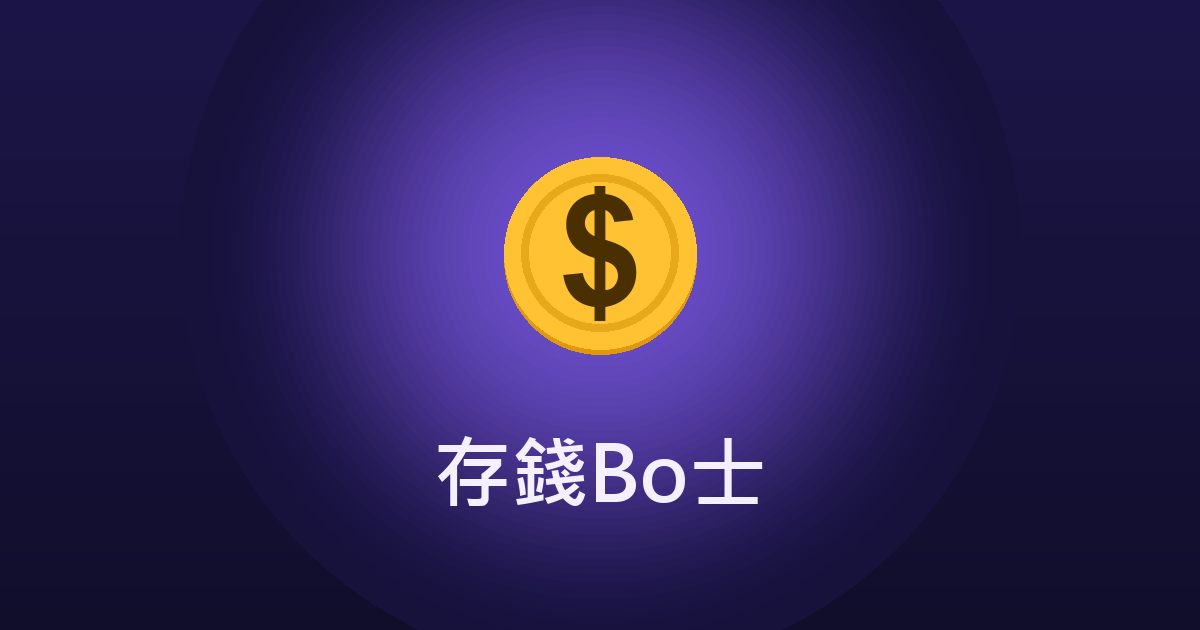
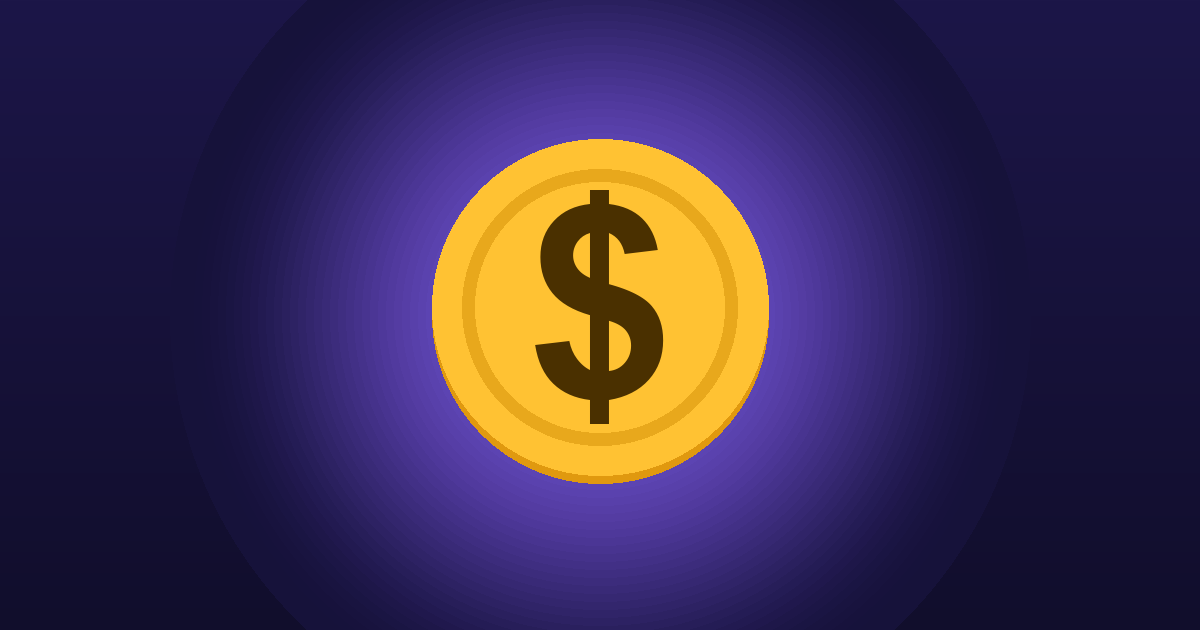
分享圖只留金幣，描述寫長一點
預覽卡片下方原本只有一行「記帳與存錢進度」顯得很空，改成三句話
說明實際用途；圖片拿掉文字，只保留置中的金幣。

diff --git a/index.html b/index.html
@@ -5,11 +5,11 @@
 <meta name="viewport" content="width=device-width, initial-scale=1, viewport-fit=cover">
 <title>存錢Bo士</title>
 <link rel="manifest" href="manifest.json">
-<meta name="description" content="記帳與存錢進度">
+<meta name="description" content="記一筆收支，看存款怎麼長、每個月存了多少、離目標還差多遠。當沖的買賣另外算，不會蓋掉日常花費。手機和電腦登入同一個 Google 帳號就會同步。">
 <meta property="og:type" content="website">
 <meta property="og:site_name" content="存錢Bo士">
 <meta property="og:title" content="存錢Bo士">
-<meta property="og:description" content="記帳與存錢進度">
+<meta property="og:description" content="記一筆收支，看存款怎麼長、每個月存了多少、離目標還差多遠。當沖的買賣另外算，不會蓋掉日常花費。手機和電腦登入同一個 Google 帳號就會同步。">
 <meta property="og:url" content="https://bocby413.github.io/savequest/">
 <meta property="og:image" content="https://bocby413.github.io/savequest/og.png">
 <meta property="og:image:width" content="1200">

diff --git a/sw.js b/sw.js
@@ -1,5 +1,5 @@
 /* 存錢Bo士 — 離線快取。改版時把 VER 加一，手機才會抓到新版 */
-const VER = 'savequest-v24';
+const VER = 'savequest-v25';
 const FILES = ['./', './index.html', './manifest.json',
   './icon-192.png', './icon-512.png', './icon-512-maskable.png', './icon-180.png', './icon-32.png', './og.png'];
 
